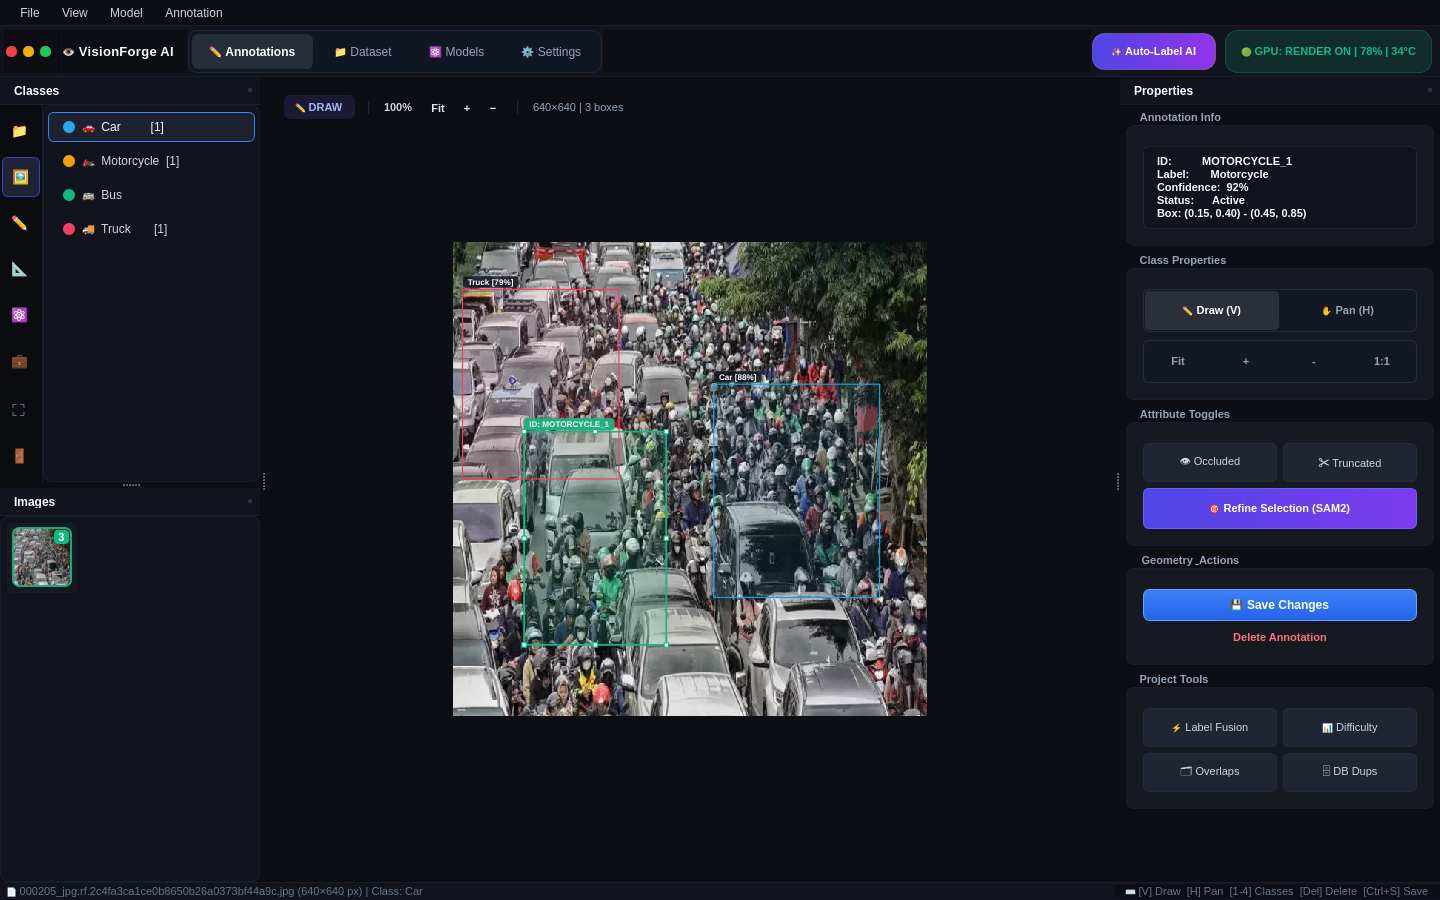
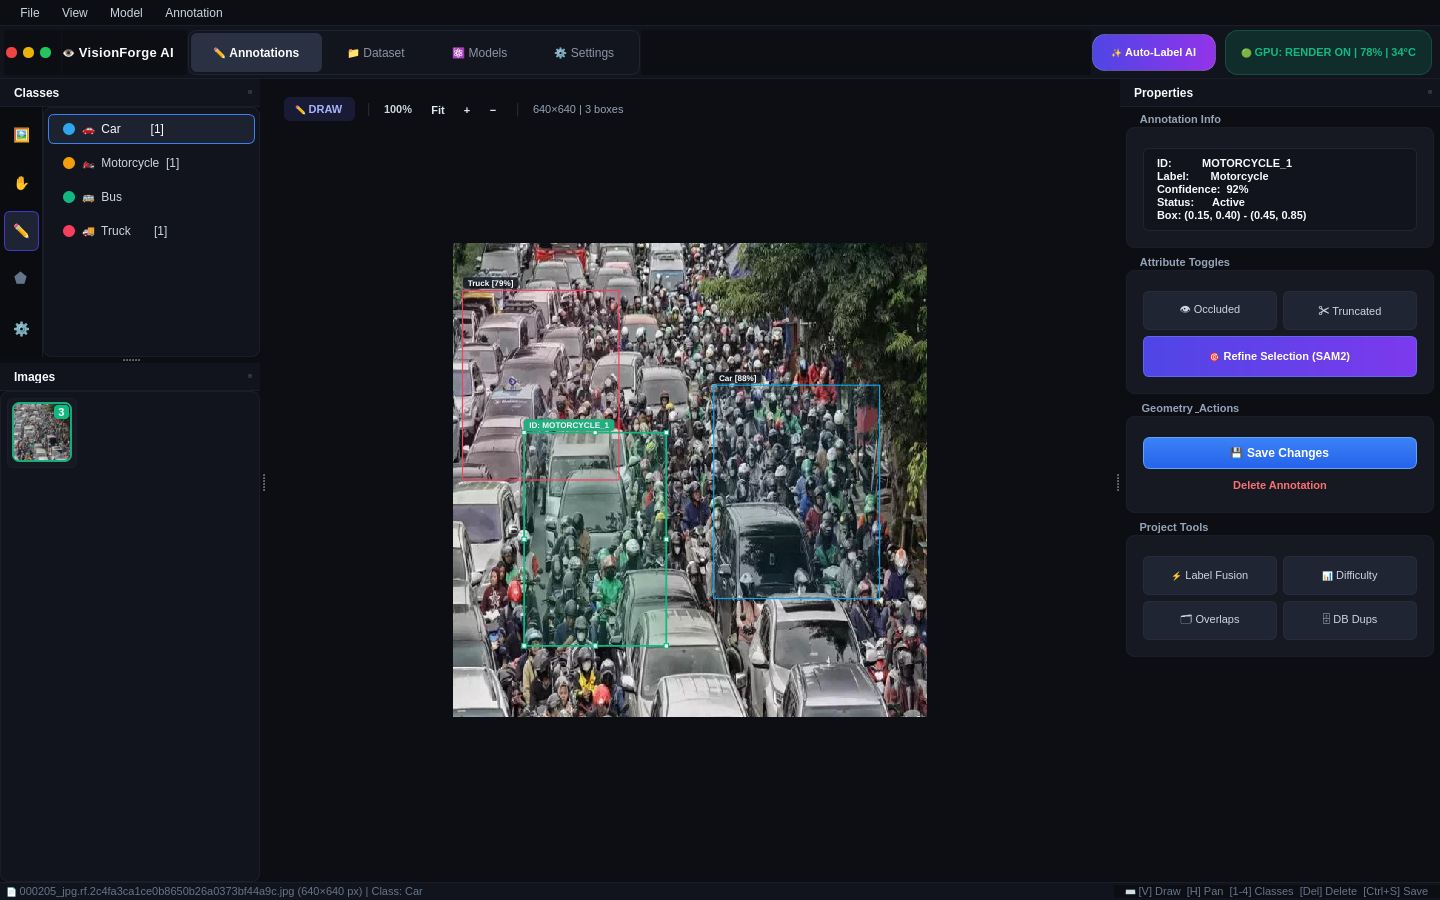
Update segmented tab styling to match exact mockup

diff --git a/app/ui/main_window.py b/app/ui/main_window.py
@@ -644,19 +644,19 @@ class MainWindow(QMainWindow):
         # 3. Center Segmented View Buttons
         seg_container = QWidget()
         seg_layout = QHBoxLayout(seg_container)
-        seg_layout.setContentsMargins(4, 4, 4, 4)
-        seg_layout.setSpacing(4)
+        seg_layout.setContentsMargins(3, 3, 3, 3)
+        seg_layout.setSpacing(2)
         seg_container.setStyleSheet(
-            "background: rgba(15, 23, 42, 0.6); border: 1px solid rgba(255, 255, 255, 0.08); border-radius: 10px;"
+            "background: #12151e; border: 1px solid #1f2433; border-radius: 8px;"
         )
 
         active_tab_style = (
-            "background: rgba(255, 255, 255, 0.1); border: 1px solid rgba(255, 255, 255, 0.05); "
-            "border-radius: 6px; color: #ffffff; font-weight: 600; font-size: 12px; padding: 4px 12px;"
+            "background: #2a3143; border: none; border-radius: 6px; "
+            "color: #ffffff; font-weight: 600; font-size: 12px; padding: 6px 18px;"
         )
         inactive_tab_style = (
             "background: transparent; border: none; border-radius: 6px; "
-            "color: #94a3b8; font-weight: 500; font-size: 12px; padding: 4px 12px;"
+            "color: #8a93a6; font-weight: 500; font-size: 12px; padding: 6px 18px;"
         )
 
         ann_tab = QToolButton(self)
